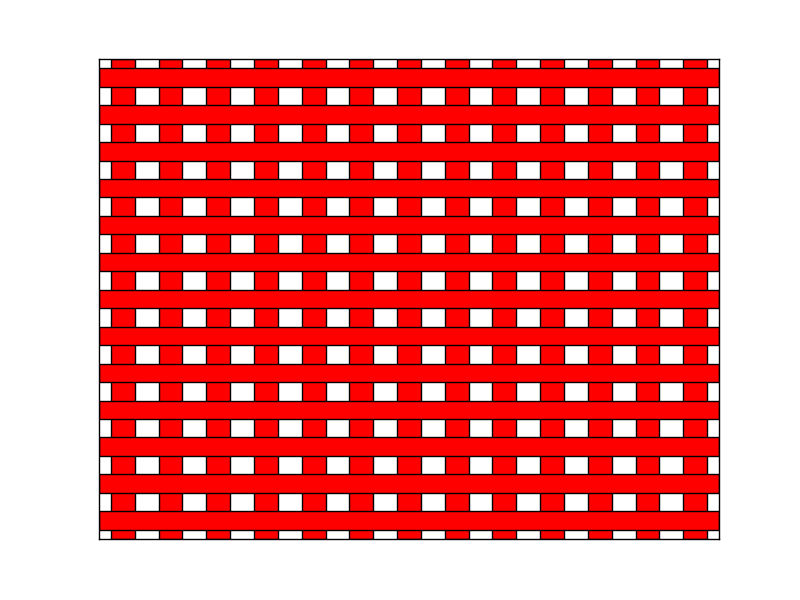
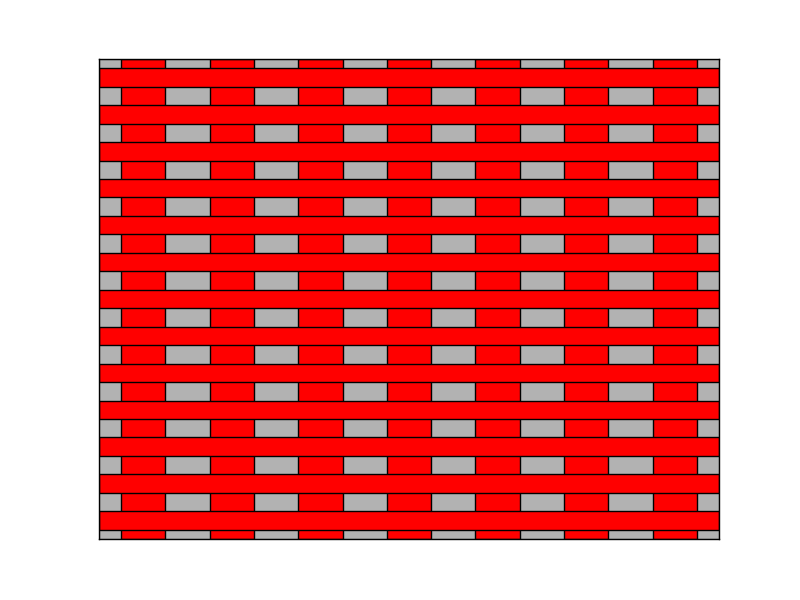
Con 8 objetos de experto y encuesta demografica lista

diff --git a/levels/interaccionParejas/game/client_types/player.js b/levels/interaccionParejas/game/client_types/player.js
@@ -521,13 +521,6 @@
       }
     }); // End stager encuesta
 
-    stager.extendStep('debrief', {
-      frame: 'debrief.htm',
-      cb: function() {
-        console.log('Debrief');
-      }
-    });
-
     stager.extendStep('demograf', {
         init: function() {
             var w;
@@ -539,9 +532,12 @@
                 forms: [
                     w.get('ChoiceTable', {
                         id: 'gender',
-                        mainText: 'What is your sex?',
+                        mainText: '¿Cuál es su género?',
                         choices: [
-                            'Male', 'Female', 'Other', 'Do not want to say'
+                            'Masculino',
+                            'Femenino',
+                            'Otro',
+                            'Prefiero no decirlo'
                         ],
                         shuffleChoices: true,
                         title: false,
@@ -549,63 +545,76 @@
                     }),
                     w.get('ChoiceTable', {
                         id: 'age',
-                        mainText: 'What is your age group?',
+                        mainText: '¿Cuál es su grupo de edad?',
                         choices: [
-                            '18-20', '21-30', '31-40', '41-50',
-                            '51-60', '61-70', '71+', 'Do not want to say'
+                            '18-20',
+                            '21-30',
+                            '31-40',
+                            '41-50',
+                            '51-60',
+                            '61-70',
+                            '71+',
+                            'Prefiero no decirlo'
                         ],
                         title: false,
                         requiredChoice: true
                     }),
-                    w.get('ChoiceTable', {
-                        id: 'political_party',
-                        mainText: 'What is your political party?',
-                        choices: [
-                            'Democrat', 'Republican', 'Socialist',
-                            'Green','Libertarian', 'Independent', 'Do not want to say'
-                        ],
-                        title: false,
-                        requiredChoice: true
-                    }),
+                    // w.get('ChoiceTable', {
+                    //     id: 'political_party',
+                    //     mainText: 'What is your political party?',
+                    //     choices: [
+                    //         'Democrat', 'Republican', 'Socialist',
+                    //         'Green','Libertarian', 'Independent', 'Do not want to say'
+                    //     ],
+                    //     title: false,
+                    //     requiredChoice: true
+                    // }),
                     w.get('ChoiceTable', {
                         id: 'carreer',
-                        mainText: 'What is the area of your study?',
+                        mainText: '¿Cuál es su área de estudio?',
                         choices: [
-                            'Natural Sciences', 'Social Sciences', 'Arts and Humanities',
-                            'Mathematics and/or Statistics', 'Do not want to say'
+                            'Matemáticas y/o Ciencias de la Computación',
+                            'Ciencias Naturales',
+                            'Ciencias Humanas',
+                            'Ciencias Políticas',
+                            'Gestión Pública',
+                            'Economía y Finanzas',
+                            'Jurisprudencia',
+                            'Prefiero no decirlo'
                         ],
                         title: false,
                         requiredChoice: true
                     }),
-                    w.get('ChoiceTable', {
-                        id: 'location',
-                        mainText: 'What is your location?',
-                        choices: [
-                            'US', 'Colombia', 'Other', 'Do not want to say'
-                        ],
-                        shuffleChoices: true,
-                        title: false,
-                        requiredChoice: true
-                    }),
+                    // w.get('ChoiceTable', {
+                    //     id: 'location',
+                    //     mainText: 'What is your location?',
+                    //     choices: [
+                    //         'US', 'Colombia', 'Other', 'Do not want to say'
+                    //     ],
+                    //     shuffleChoices: true,
+                    //     title: false,
+                    //     requiredChoice: true
+                    // }),
                     w.get('ChoiceTable', {
                         id: 'strategy',
-                        mainText: 'During the game, and specially in regards ' +
-                        'to the work of uncovering the tiles, I',
+                        mainText: 'Durante el juego,',
                         choices: [
-                            'Tried to get my partner to do all or most of the work',
-                            'Tried to do all or most of the work myself',
-                            'Tried to divide the workload', 'Do not want to say'
+                            'me concentré en que mi compañero me pasara objetos',
+                            'me concentré en armar parejas yo solo',
+                            'traté de intercambiar objetos con mi compañero',
+                            'Prefiero no decirlo'
                         ],
                         title: false,
                         requiredChoice: true
                       }),
                       w.get('ChoiceTable', {
                           id: 'orientation',
-                          mainText: 'During the game, I tried to',
+                          mainText: 'Durante el juego intenté',
                           choices: [
-                              'Maximize my points',
-                              'Cooperate with partner',
-                              'Both', 'Do not want to say'
+                              'maximizar mis puntos',
+                              'cooperar con mi compañero',
+                              'ambos',
+                              'Prefiero no decirlo'
                           ],
                           title: false,
                           requiredChoice: true
@@ -636,6 +645,13 @@
                 valores: values
             };
         }
+    });
+
+    stager.extendStep('debrief', {
+      frame: 'debrief.htm',
+      cb: function() {
+        console.log('Debrief');
+      }
     });
 
     stager.extendStep('end', {

diff --git a/levels/interaccionParejas/game/client_types/logic.js b/levels/interaccionParejas/game/client_types/logic.js
@@ -58,15 +58,15 @@ module.exports = function(treatmentName, settings, stager, setup, gameRoom) {
         }
     });
 
-    stager.extendStep('debrief', {
-        cb: function() {
-          console.log('Debrief...');
-        }
-    });
-
     stager.extendStep('demograf', {
         cb: function() {
           console.log('demograf...');
+        }
+    });
+
+    stager.extendStep('debrief', {
+        cb: function() {
+          console.log('Debrief...');
         }
     });
 
@@ -104,7 +104,7 @@ module.exports = function(treatmentName, settings, stager, setup, gameRoom) {
         // Dup = tipoPoligono: Gris;
         //       paridadHorizontales: Par;
         //       paridadVerticales: Impar;
-        //       colorRayas = Rojo;
+        //       colorRayas = Azul;
 
         // Creando datos para enviar al jugador XOL (player[0])
         // Aleatorizo la lista de indices
@@ -127,8 +127,11 @@ module.exports = function(treatmentName, settings, stager, setup, gameRoom) {
         tiposObjetosPL1[2] = 'Xol';
         tiposObjetosPL1[3] = 'Xol';
         tiposObjetosPL1[4] = 'Xol';
-        tiposObjetosPL1[5] = 'Dup';
-        for (var i=6; i < 20; i++) {
+        tiposObjetosPL1[5] = 'Xol';
+        tiposObjetosPL1[6] = 'Xol';
+        tiposObjetosPL1[7] = 'Xol';
+        tiposObjetosPL1[8] = 'Dup';
+        for (var i=9; i < 20; i++) {
           tiposObjetosPL1[i] = 'Otro';
         }
         // console.log(tiposObjetos);
@@ -139,10 +142,13 @@ module.exports = function(treatmentName, settings, stager, setup, gameRoom) {
         srcImagenesPL1[2] = 'Images/objeto' + 3 + '.png';
         srcImagenesPL1[3] = 'Images/objeto' + 4 + '.png';
         srcImagenesPL1[4] = 'Images/objeto' + 5 + '.png';
-        srcImagenesPL1[5] = 'Images/objeto' + 6 + '.png'; // Este es un DUP
+        srcImagenesPL1[5] = 'Images/objeto' + 6 + '.png';
+        srcImagenesPL1[6] = 'Images/objeto' + 7 + '.png';
+        srcImagenesPL1[7] = 'Images/objeto' + 8 + '.png';
+        srcImagenesPL1[8] = 'Images/objeto' + 9 + '.png';  // Este es un DUP
         // ... y de los demás objetos
-        for (var i=11; i < 25; i++) {
-          srcImagenesPL1[i-5] = 'Images/objeto' + i + '.png';
+        for (var i=20; i < 31; i++) {
+          srcImagenesPL1[i-11] = 'Images/objeto' + i + '.png';
         }
         // Crea los datos para la explicacion experto
         var explicacionPL1 = [];
@@ -158,7 +164,6 @@ module.exports = function(treatmentName, settings, stager, setup, gameRoom) {
         for (var i = 0; i < 20; i++) {
           aPL2.push(i);
         }
-        // console.log(a);
         var j, x, i;
         for (i = aPL2.length - 1; i > 0; i--) {
             j = Math.floor(Math.random() * (i + 1));
@@ -166,6 +171,7 @@ module.exports = function(treatmentName, settings, stager, setup, gameRoom) {
             aPL2[i] = aPL2[j];
             aPL2[j] = x;
         }
+        // console.log(a);
         // Creo la lista que identifica el tipo de objeto
         var tiposObjetosPL2 = [];
         tiposObjetosPL2[0] = 'Dup';
@@ -173,28 +179,34 @@ module.exports = function(treatmentName, settings, stager, setup, gameRoom) {
         tiposObjetosPL2[2] = 'Dup';
         tiposObjetosPL2[3] = 'Dup';
         tiposObjetosPL2[4] = 'Dup';
-        tiposObjetosPL2[5] = 'Xol';
-        for (var i=6; i < 20; i++) {
+        tiposObjetosPL2[5] = 'Dup';
+        tiposObjetosPL2[6] = 'Dup';
+        tiposObjetosPL2[7] = 'Dup';
+        tiposObjetosPL2[8] = 'Xol';
+        for (var i=9; i < 20; i++) {
           tiposObjetosPL2[i] = 'Otro';
         }
         // Creo la lista de source para las imagenes de los DUP...
         var srcImagenesPL2 = [];
-        srcImagenesPL2[0] = 'Images/objeto' + 6 + '.png';
-        srcImagenesPL2[1] = 'Images/objeto' + 7 + '.png';
-        srcImagenesPL2[2] = 'Images/objeto' + 8 + '.png';
-        srcImagenesPL2[3] = 'Images/objeto' + 9 + '.png';
-        srcImagenesPL2[4] = 'Images/objeto' + 10 + '.png';
-        srcImagenesPL2[5] = 'Images/objeto' + 1 + '.png'; // Este es un XOL
+        srcImagenesPL2[0] = 'Images/objeto' + 9 + '.png';
+        srcImagenesPL2[1] = 'Images/objeto' + 10 + '.png';
+        srcImagenesPL2[2] = 'Images/objeto' + 11 + '.png';
+        srcImagenesPL2[3] = 'Images/objeto' + 12 + '.png';
+        srcImagenesPL2[4] = 'Images/objeto' + 13 + '.png';
+        srcImagenesPL2[5] = 'Images/objeto' + 14 + '.png';
+        srcImagenesPL2[6] = 'Images/objeto' + 15 + '.png';
+        srcImagenesPL2[7] = 'Images/objeto' + 16 + '.png';
+        srcImagenesPL2[8] = 'Images/objeto' + 1 + '.png'; // Este es un XOL
         // ... y de los demás objetos
-        for (var i=11; i < 25; i++) {
-          srcImagenesPL2[i-5] = 'Images/objeto' + i + '.png';
+        for (var i=17; i < 28; i++) {
+          srcImagenesPL2[i-9] = 'Images/objeto' + i + '.png';
         }
         // Crea los datos para la explicacion experto
         var explicacionPL2 = [];
         explicacionPL2[0] = 'Dup';
         explicacionPL2[1] = 'grises';
-        explicacionPL2[2] = 'rojo';
-        explicacionPL2[3] = 'impar';
+        explicacionPL2[2] = 'azul';
+        explicacionPL2[3] = 'par';
         explicacionPL2[4] = 'par';
 
         // Envio los datos al primer jugador

diff --git a/levels/interaccionParejas/game/game.stages.js b/levels/interaccionParejas/game/game.stages.js
@@ -14,8 +14,8 @@ module.exports = function(stager, settings) {
      stager
         .repeat('trials', settings.REPEAT)
         .next('encuesta')
-        .next('debrief')
         .next('demograf')
+        .next('debrief')
         .next('end')
         .gameover();
 
@@ -27,10 +27,10 @@ module.exports = function(stager, settings) {
     });
 
     // Modify the stager to skip one stage.
-    // stager.skip('trials');
-    // stager.skip('debrief');
-    // stager.skip('encuesta');
+    stager.skip('trials');
+    stager.skip('encuesta');
     // stager.skip('demograf');
+    // stager.skip('debrief');
 
     return stager.getState();
 };

diff --git a/game/game.settings.js b/game/game.settings.js
@@ -45,6 +45,7 @@ module.exports = {
         game: 240000,
         puntaje: 30000,
         encuesta: 180000,
+        demograf: 90000,
         debrief: 60000
     },
 

diff --git a/public/Images/crea_objetos.py b/public/Images/crea_objetos.py
@@ -77,7 +77,7 @@ def dibuja_objeto(tipoPoligono, \
 
 # True: Fondo gris; False: Fondo blanco
 # tipoPoligono = choice([False, True])
-tipoPoligono = False
+tipoPoligono = True
 
 # True: Azul; False: Rojo
 # colorRayas = choice([False, True])
@@ -91,8 +91,8 @@ paridadVerticales = False
 # paridadHorizontales = choice([False, True])
 paridadHorizontales = False
 
-numObjetosInicial = 23
-numObjetosFinal = 24
+numObjetosInicial = 9
+numObjetosFinal = 16
 
 for cont in range(numObjetosInicial, numObjetosFinal + 1):
     dibuja_objeto(tipoPoligono, \
